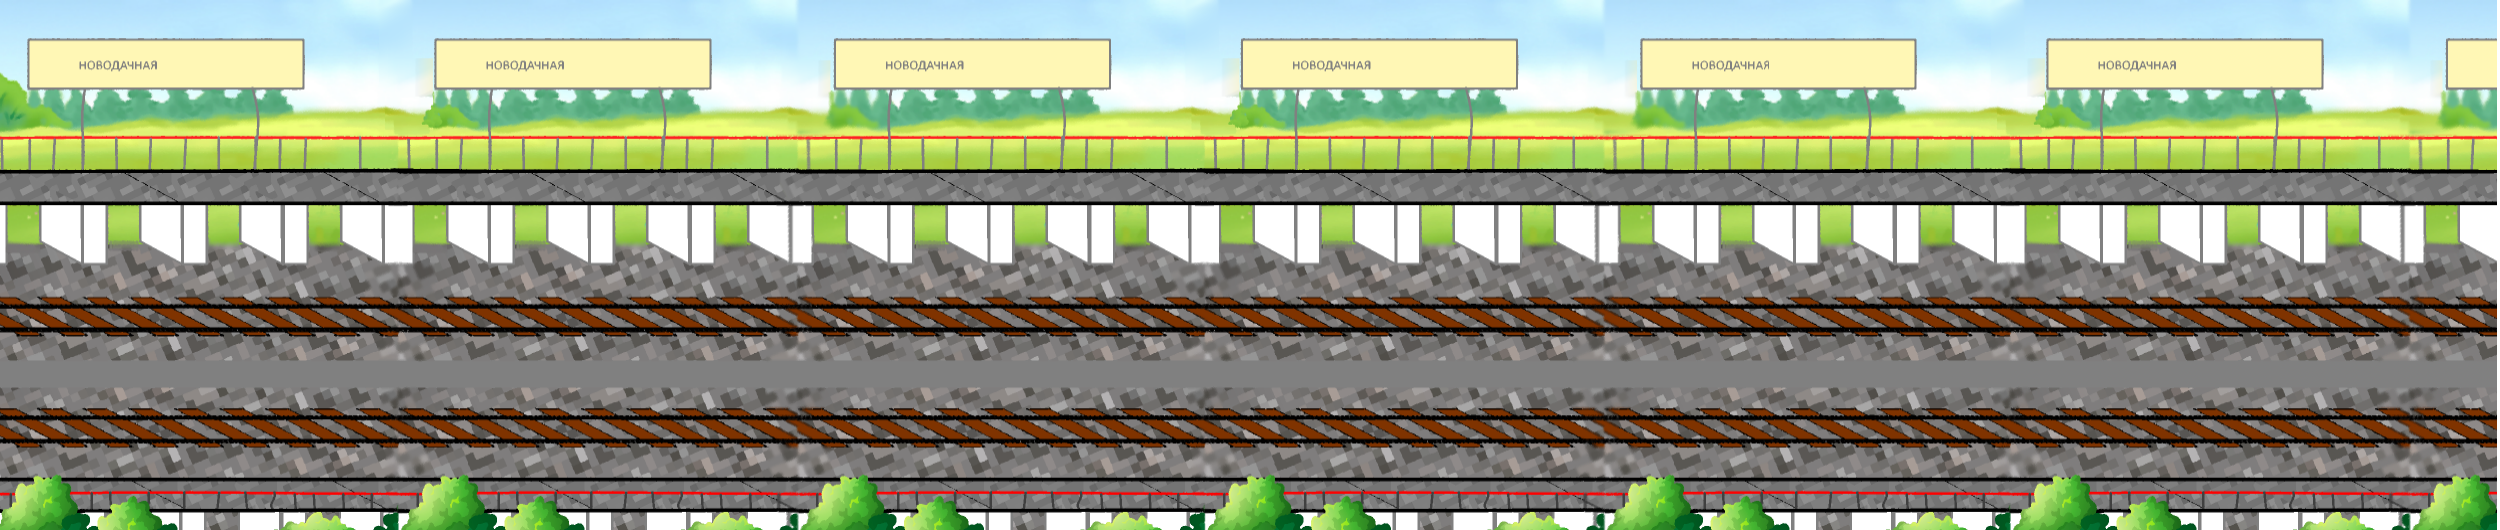
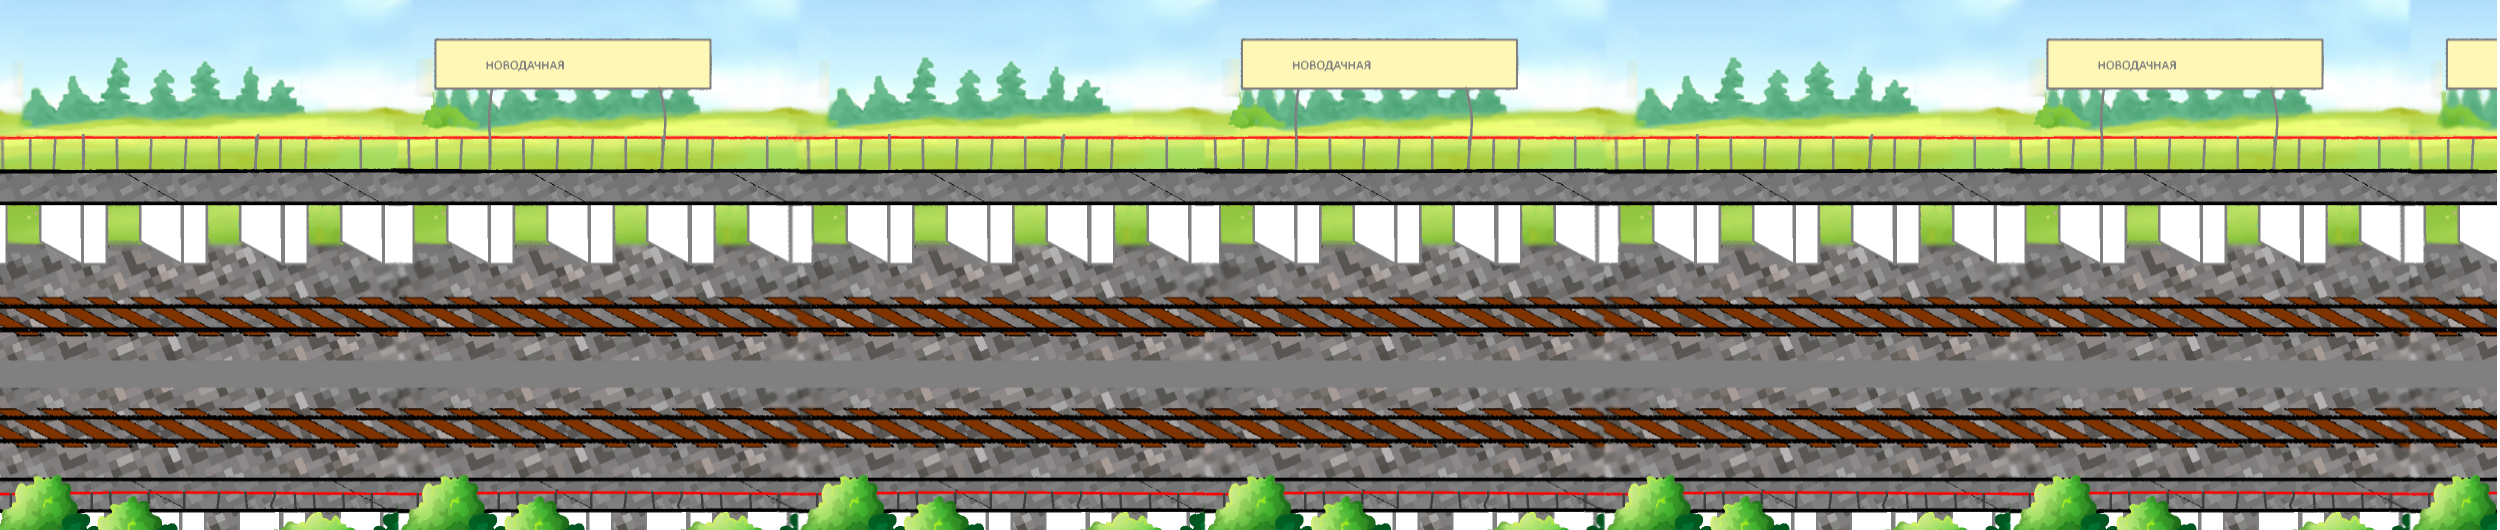
fix Background speed

Changed region(s): [[0.624, 0.0604, 0.78, 0.3321], [0.312, 0.0604, 0.468, 0.2717], [0.0, 0.0604, 0.1248, 0.2717]]

diff --git a/Game/Game/Includes/Engine.h b/Game/Game/Includes/Engine.h
@@ -43,7 +43,7 @@ int loadTexture()
 	{
 		sf::Texture *BackgroundT = new sf::Texture;
 		BackgroundT->loadFromFile("Resourses/BackGround_long.png");
-
+		
 		texturesMap["Background"] = BackgroundT;
 	}
 	{
@@ -69,7 +69,7 @@ Engine::Engine()
 	assert(engineWindow_);
 
 	loadTexture();
-	engineWindow_->setFramerateLimit(60);
+	engineWindow_->setFramerateLimit(150);
 }
 
 Engine::~Engine()

diff --git a/Game/Game/Includes/Vector/Vector.h b/Game/Game/Includes/Vector/Vector.h
@@ -1,5 +1,7 @@
 #pragma once
 
+#include "Vector.h"
+
 #include <stdio.h>
 #include <math.h>
 
@@ -75,6 +77,6 @@ Vector operator %(Vector &vector, long number)
 {
 	vector.x_ = ((long) vector.x_) % number;
 	//yyyyyyyyyyyyyyyyyyyyyyyyyyyyyyyyyyyyy;
-	
+	//Vector tmp = 
 	return vector;
 }

diff --git a/Game/Game/Includes/Objects/Object.h b/Game/Game/Includes/Objects/Object.h
@@ -40,7 +40,9 @@ Object::Object(Vector coordinate, Vector velocity, size_t weight, sf::Sprite spr
 	coordinate_(coordinate),
 	velocity_(velocity),
 	weight_(weight)
-{}
+{
+	sprite_.setOrigin(0, sprite.getTextureRect().height);
+}
 
 void Object::Dump()
 {

diff --git a/Game/Game/Includes/Objects/Background.h b/Game/Game/Includes/Objects/Background.h
@@ -32,8 +32,9 @@ void Background::Control()
 }
 
 int Background::Logic()
-{
-	coordinate_ = coordinate_ % ((2376 - 764) / 2);
+
+	if ( coordinate_.GetX() <= -((2376 - 764) / 2) )
+		coordinate_ = coordinate_ % ((2376 - 764) / 2);
 	return 0;
 }
 
